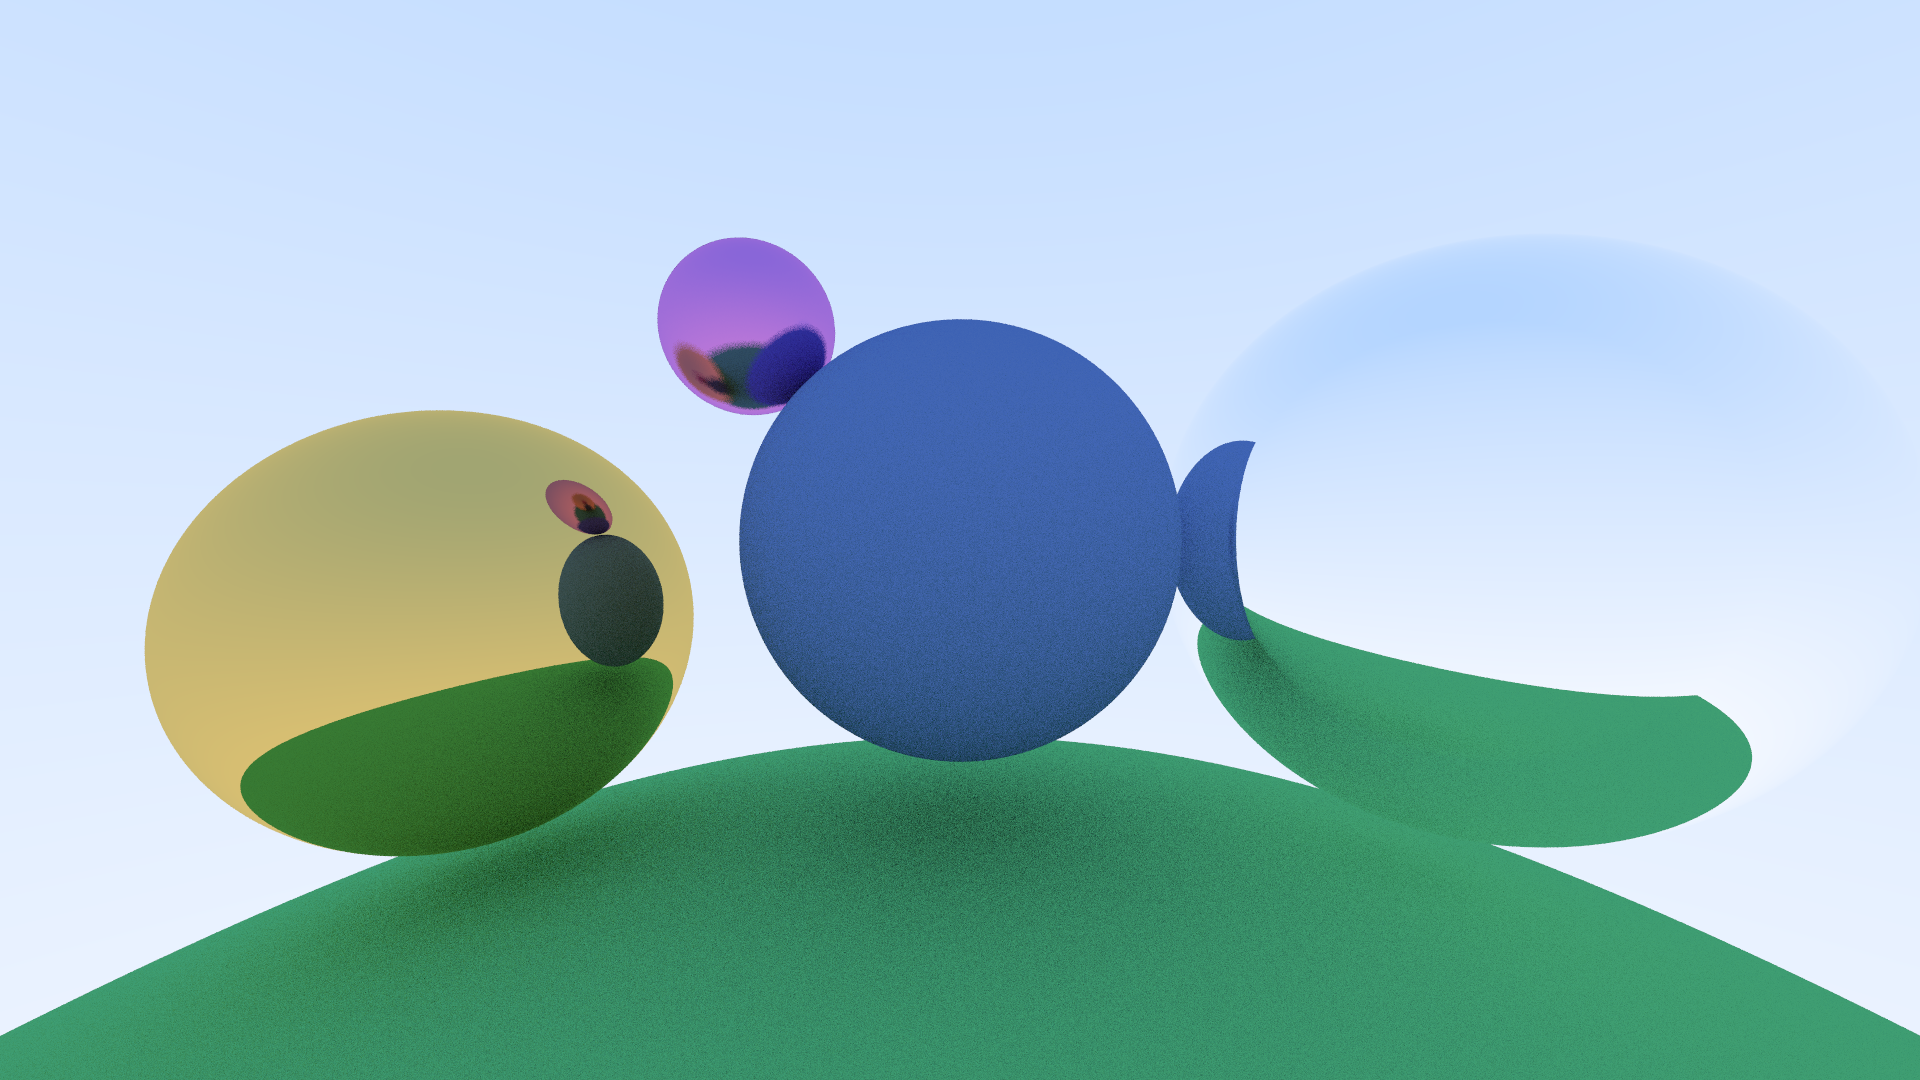
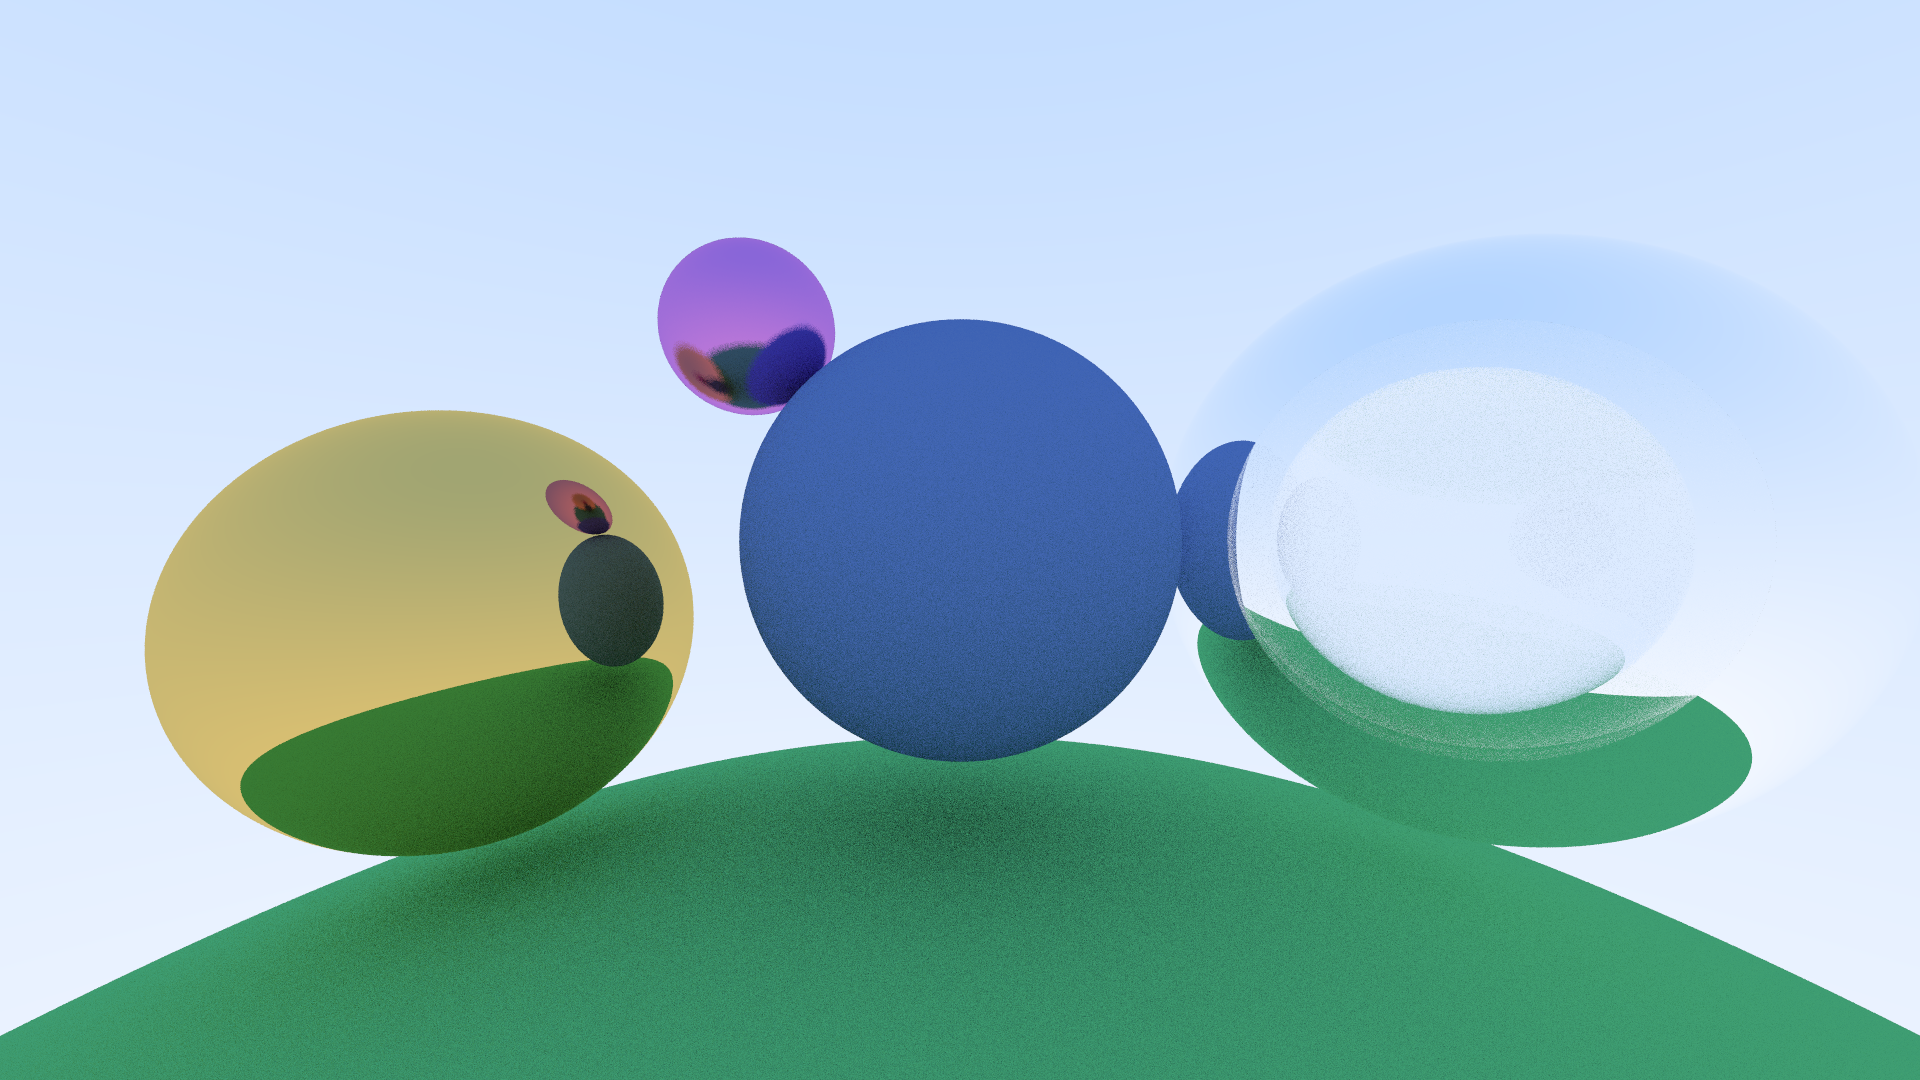
fix

Changed region(s): [[0.2188, 0.4583, 0.875, 0.8556], [0.7188, 0.3361, 0.7812, 0.3667]]

diff --git a/src/main.rs b/src/main.rs
@@ -5,7 +5,7 @@ use rand::rngs::ThreadRng;
 use rand_distr::Uniform;
 use rayon::iter::ParallelIterator;
 use raytrace::{
-    camera::camera::CameraBuilder,
+    camera::camera::{CameraBuilder, CameraModel},
     entity::{analytic::sphere::Sphere, scene::Scene, traits::Entity},
     helpers::{
         traits::Color,
@@ -18,6 +18,16 @@ use std::{f64::consts::PI, sync::Arc};
 
 fn main() {
     let yfov = 75.0 / 360.0 * 2.0 * PI;
+    // let cam = CameraBuilder {
+    //     resolution: UVec2::new(1920, 1080),
+    //     yfov,
+    //     vd: 2.0,
+    //     pos: vec3::zeros(),
+    //     lookat: vec3::new(1.0, 0.0, 0.0),
+    //     up: vec3::new(0.0, 1.0, 0.0),
+    //     model: CameraModel::Pinhole,
+    // }
+    // .build();
     let cam = CameraBuilder {
         resolution: UVec2::new(1920, 1080),
         yfov,
@@ -25,6 +35,7 @@ fn main() {
         pos: vec3::zeros(),
         lookat: vec3::new(1.0, 0.0, 0.0),
         up: vec3::new(0.0, 1.0, 0.0),
+        model: CameraModel::Lens { radius: 0.05 },
     }
     .build();
 
@@ -44,6 +55,7 @@ fn main() {
         fuzz: 0.1,
     };
     let transp = Material::Dielectric { eta: 0.75 };
+    let transp_inner = Material::Dielectric { eta: 1.33 };
 
     let mut ents: Vec<Arc<dyn Entity>> = Vec::new();
     let center = ents.push(Arc::new(Sphere::new(vec3::new(5.0, 0.0, 0.0), 1.5, blue)));
@@ -53,6 +65,11 @@ fn main() {
         fuzz_purple,
     )));
     let right = ents.push(Arc::new(Sphere::new(vec3::new(5.0, 0.0, 3.5), 2.0, transp)));
+    let right_inner = ents.push(Arc::new(Sphere::new(
+        vec3::new(5.0, 0.0, 3.5),
+        1.6,
+        transp_inner,
+    )));
     let left = ents.push(Arc::new(Sphere::new(
         vec3::new(5.0, -0.6, -3.5),
         1.5,
@@ -73,7 +90,6 @@ fn main() {
     let tracer = TracerMat {
         cam,
         scene,
-        uniform: Uniform::new(0.0, 1.0),
         reflect_ratio: 0.5,
     };
 

diff --git a/src/camera/camera.rs b/src/camera/camera.rs
@@ -3,6 +3,8 @@ use crate::{
     math::panics::PanickingNormalize,
 };
 
+use super::image_space::ImageSpace;
+
 pub struct CameraBuilder {
     pub resolution: glm::UVec2,
     pub yfov: f64,
@@ -13,6 +15,9 @@ pub struct CameraBuilder {
     // directions
     pub lookat: vec3,
     pub up: vec3,
+
+    /// camera model
+    pub model: CameraModel,
 }
 
 impl CameraBuilder {
@@ -21,29 +26,9 @@ impl CameraBuilder {
     }
 }
 
-pub struct ImageSpace {
-    pub orig: vec3,
-    pub delta: f64,
-    pub xdir: vec3,
-    pub ydir: vec3,
-}
-
-impl ImageSpace {
-    /// ### Maps image space coords to world coords
-    pub fn pixel_center_at(&self, ix: u32, iy: u32) -> vec3 {
-        self.orig + self.pixel_offset(ix as f64, iy as f64)
-    }
-
-    /// ### Maps image space coords to world coords
-    pub fn pixel_lefttop_at(&self, ix: u32, iy: u32) -> vec3 {
-        self.orig + self.pixel_offset(ix as f64 - 0.5, iy as f64 - 0.5)
-    }
-
-    #[inline]
-    // ### Pixel offset of given number of pixels in world coords
-    pub fn pixel_offset(&self, ndx: f64, ndy: f64) -> vec3 {
-        (self.xdir * self.delta * ndx as f64) + (self.ydir * self.delta * ndy as f64)
-    }
+pub enum CameraModel {
+    Pinhole,
+    Lens { radius: f64 },
 }
 
 pub struct Camera {
@@ -63,6 +48,9 @@ pub struct Camera {
     pub right: vec3,
 
     pub image_space: ImageSpace,
+
+    /// camera model
+    pub model: CameraModel,
 }
 
 impl Camera {
@@ -94,6 +82,7 @@ impl Camera {
             lookat: cam.lookat,
             up: cam.up,
             vd: cam.vd,
+            model: cam.model,
 
             image_span,
             right,

diff --git a/src/tracer/ray/hit.rs b/src/tracer/ray/hit.rs
@@ -5,7 +5,11 @@ use crate::{
         types::{color, vec3},
     },
     materials::material::Material,
-    math::{panics::PanickingFloatMethods, ray::RayDir, sphere_distribution::sample_on_sphere},
+    math::{
+        distributions::{sample_on_sphere, sample_uniform_01},
+        panics::PanickingFloatMethods,
+        ray::{reflectance, RayDir},
+    },
 };
 use rand::rngs::ThreadRng;
 
@@ -74,7 +78,9 @@ impl Hit {
                 let cosine = normal.dot(&-self.in_dir).min(1.0);
                 let sine = (1.0 - cosine * cosine).p_sqrt();
 
-                let reflected_dir = if eta_ratio * sine > 1.0 {
+                let reflected_dir = if eta_ratio * sine > 1.0
+                    || reflectance(cosine, eta_ratio) > sample_uniform_01(rng)
+                {
                     // total internal reflection
                     self.in_dir.reflected_by(&normal)
                 } else {

diff --git a/src/camera/image_space.rs b/src/camera/image_space.rs
@@ -1,0 +1,26 @@
+use crate::helpers::types::vec3;
+
+pub struct ImageSpace {
+    pub orig: vec3,
+    pub delta: f64,
+    pub xdir: vec3,
+    pub ydir: vec3,
+}
+
+impl ImageSpace {
+    /// ### Maps image space coords to world coords
+    pub fn pixel_center_at(&self, ix: u32, iy: u32) -> vec3 {
+        self.orig + self.pixel_offset(ix as f64, iy as f64)
+    }
+
+    /// ### Maps image space coords to world coords
+    pub fn pixel_lefttop_at(&self, ix: u32, iy: u32) -> vec3 {
+        self.orig + self.pixel_offset(ix as f64 - 0.5, iy as f64 - 0.5)
+    }
+
+    #[inline]
+    // ### Pixel offset of given number of pixels in world coords
+    pub fn pixel_offset(&self, ndx: f64, ndy: f64) -> vec3 {
+        (self.xdir * self.delta * ndx as f64) + (self.ydir * self.delta * ndy as f64)
+    }
+}

diff --git a/src/tracer/tracers/tracer_mat.rs b/src/tracer/tracers/tracer_mat.rs
@@ -5,17 +5,14 @@ use crate::{
         constants::MAX_NUM_REFLECTION,
         types::{color, vec3},
     },
-    math::panics::PanickingNormalize,
+    math::{distributions::sample_uniform_01, panics::PanickingNormalize},
     tracer::ray::ray::Ray,
 };
 use rand::rngs::ThreadRng;
-use rand_distr::{Distribution, Uniform};
 
 pub struct TracerMat {
     pub cam: Camera,
     pub scene: Scene,
-
-    pub uniform: Uniform<f64>,
 
     pub reflect_ratio: f64,
 }
@@ -23,7 +20,7 @@ pub struct TracerMat {
 impl TracerMat {
     fn sample_pixel_delta(&self, spp: usize, rng: &mut ThreadRng) -> Vec<(f64, f64)> {
         (0..spp)
-            .map(|_| (self.uniform.sample(rng), self.uniform.sample(rng)))
+            .map(|_| (sample_uniform_01(rng), sample_uniform_01(rng)))
             .collect()
     }
 

diff --git a/src/camera/mod.rs b/src/camera/mod.rs
@@ -1,4 +1,5 @@
 pub mod camera;
+pub mod image_space;
 
 #[cfg(test)]
 pub mod tests {
@@ -6,7 +7,7 @@ pub mod tests {
 
     use glm::UVec2;
 
-    use crate::helpers::types::vec3;
+    use crate::{camera::camera::CameraModel, helpers::types::vec3};
 
     use super::camera::CameraBuilder;
 
@@ -20,6 +21,7 @@ pub mod tests {
             pos: vec3::zeros(),
             lookat: vec3::new(1.0, 0.0, 0.0),
             up: vec3::new(0.0, 1.0, 0.0),
+            model: CameraModel::Pinhole,
         }
         .build();
 

diff --git a/src/math/distributions.rs b/src/math/distributions.rs
@@ -1,0 +1,15 @@
+use std::cell::LazyCell;
+
+use crate::helpers::types::vec3;
+use rand::rngs::ThreadRng;
+use rand_distr::{Distribution, Uniform, UnitSphere};
+
+pub const SPHERE_DISTRIBUTION: UnitSphere = UnitSphere;
+pub fn sample_on_sphere(rng: &mut ThreadRng) -> vec3 {
+    SPHERE_DISTRIBUTION.sample(rng).into()
+}
+
+pub const UNIFORM_01: LazyCell<Uniform<f64>> = LazyCell::new(|| Uniform::new(0.0, 1.0));
+pub fn sample_uniform_01(rng: &mut ThreadRng) -> f64 {
+    UNIFORM_01.sample(rng)
+}

diff --git a/src/materials/material.rs b/src/materials/material.rs
@@ -10,8 +10,8 @@ pub enum Material {
     },
     FuzzedMetal {
         albedo: color,
-        /// between [0, 1], 0 for perfect reflection.
-        /// radius of fuzz sphere.
+        /// between \[0, 1\], 0 for perfect reflection.
+        /// - `fuzz` :radius of fuzz sphere.
         fuzz: f64,
     },
     Dielectric {

diff --git a/src/math/ray.rs b/src/math/ray.rs
@@ -17,3 +17,9 @@ impl RayDir for vec3 {
         r_out_perp + r_out_parallel
     }
 }
+
+pub fn reflectance(cosine: f64, eta_ratio: f64) -> f64 {
+    let mut r0 = (1.0 - eta_ratio) / (1.0 + eta_ratio);
+    r0 *= r0;
+    r0 + (1.0 - r0) * (1.0 - cosine).powi(5)
+}

diff --git a/src/math/mod.rs b/src/math/mod.rs
@@ -2,6 +2,6 @@
 
 pub mod interval;
 pub mod panics;
-pub mod sphere_distribution;
+pub mod distributions;
 pub mod ray;
 
